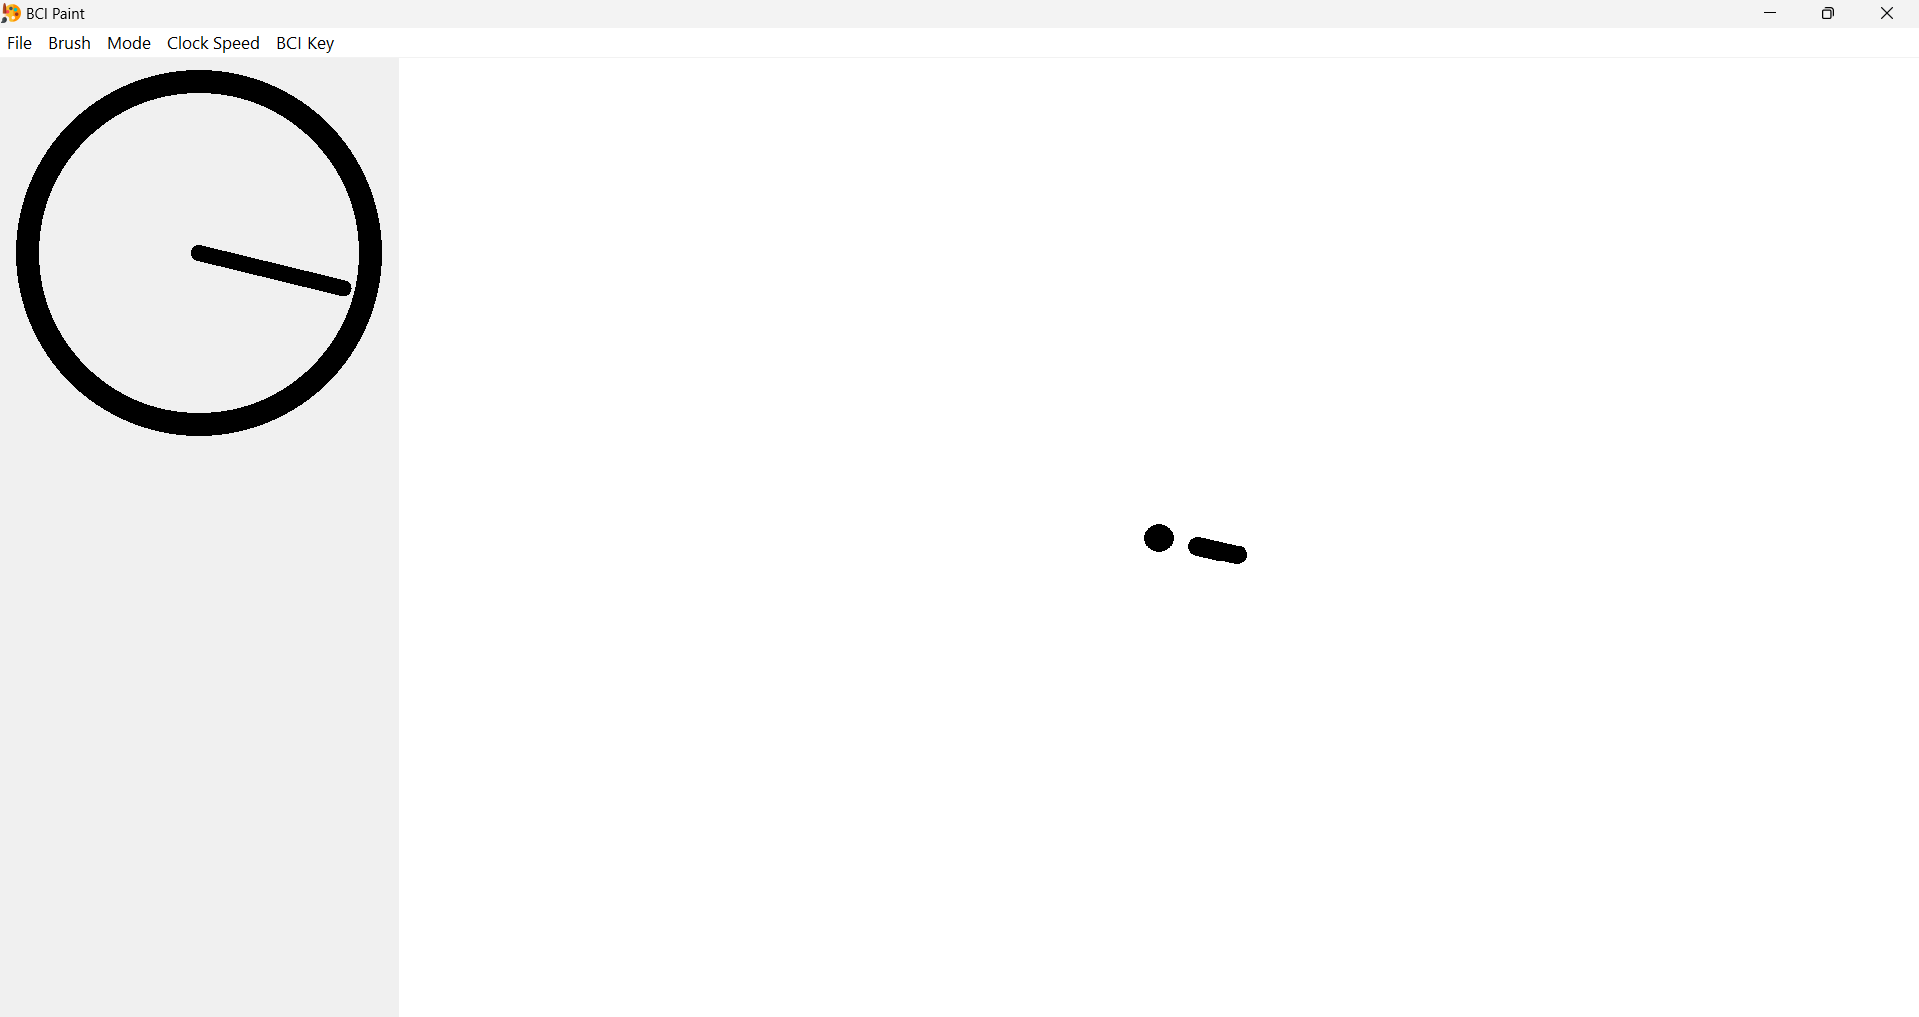
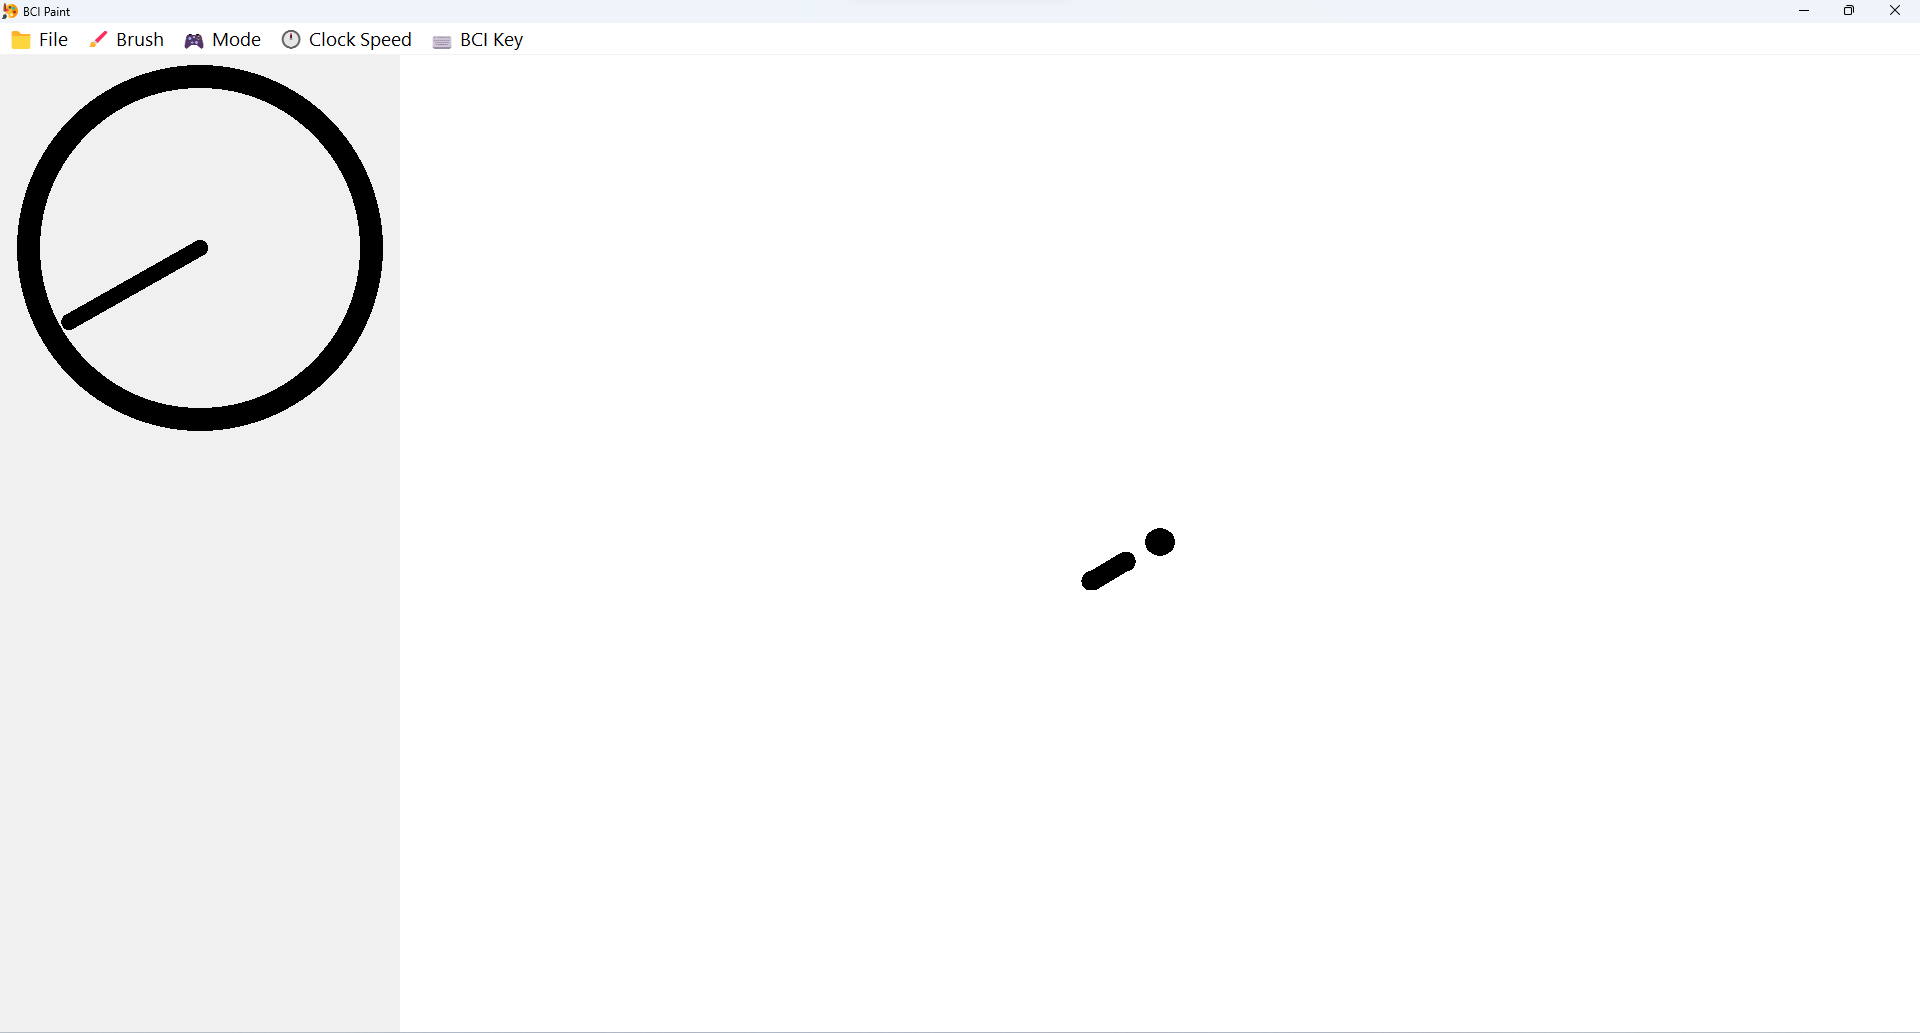
Added sticker placement feature

Changed region(s): [[0.0, 0.2134, 0.1845, 0.4267], [0.0, 0.0, 0.2767, 0.1524], [0.5534, 0.5182, 0.6456, 0.5792]]

diff --git a/main.py b/main.py
@@ -82,6 +82,17 @@ class Window(QMainWindow):
         # Initialize the mode to freestyle
         self.mode = Mode.FREESTYLE
 
+        # Set up the sticker placements (rows, columns, and coordinates allow for future flexibilty)
+        self.StickerIndices = ["number-1.png", "number-2.png", "number-3.png", "number-4", "number-5.png", "number-6.png", "number-7.png", "number-8.png", "number-9.png"]
+        self.stickerCoordinates = []
+        self.stickerRows = 3
+        self.stickerColumns = 3
+        self.currentStickerIndex = 0
+
+        self.stickerTimer = QTimer(self, interval=3000)
+        self.stickerTimer.timeout.connect(self.incrementStickerIndex)
+        self.stickerTimer.start()
+
         # Initialize feedback mode using the power level to off
         self.feedback = False
  
@@ -178,6 +189,34 @@ class Window(QMainWindow):
 
                     # Add a pause so the animation is visible
                     QTest.qWait(15)
+            elif self.mode == Mode.STICKER:
+                self.stickerTimer.stop()
+
+                # Get the image from the user
+                filename=None
+
+                if not filename:
+                    filename, _ = QFileDialog.getOpenFileName(self, 'Select Sticker' , QDir.currentPath(), 'Images (*.png *.jpg)')
+                if not filename:
+                    self.stickerTimer.start()
+                    return
+                
+                pixmap = QPixmap(filename)
+
+                # Scale the picture to the size of the grid cell if it is larger
+                if (pixmap.height() > self.image.height() // self.stickerRows):
+                    pixmap = pixmap.scaledToHeight(self.image.height() // self.stickerRows)
+                if (pixmap.width() > self.image.width() // self.stickerColumns):
+                    pixmap = pixmap.scaledToWidth(self.image.width() // self.stickerColumns)
+
+                # Set the coordinates of the picture to be centered in the grid cell
+                x = self.stickerCoordinates[self.currentStickerIndex][0] - pixmap.width() // 2
+                y = self.stickerCoordinates[self.currentStickerIndex][1] - pixmap.height() // 2
+
+                self.painter.drawPixmap(x, y, pixmap)
+
+                # Reset the timer
+                self.stickerTimer.start()
 
             # When the key press action finishes subtract 1 from the total currently active key presses being handled
             self.keyCount -= 1
@@ -209,20 +248,44 @@ class Window(QMainWindow):
 
         toolPainter.setPen(QPen(Qt.black, self.brushSize, Qt.SolidLine, Qt.RoundCap, Qt.RoundJoin))
 
-        # Draw the animation around the brush
-        x2 = math.sin(2*math.pi*self.theta/360)*self.brushSize*2
-        y2 = math.cos(2*math.pi*self.theta/360)*self.brushSize*2
-        toolPainter.drawLine(QLineF(self.x + x2, self.y - y2, self.x + 2*x2, self.y - 2*y2))
+        if self.mode == Mode.STICKER:
+            # Cacluate positions to draw stickers based on the number of rows and columns
+            self.stickerCoordinates = []
+            for i in range(0, self.stickerRows):
+                for j in range(0, self.stickerColumns):
+                    x = (self.image.width() // self.stickerColumns) * j + (self.image.width() // self.stickerColumns) // 2
+                    y = (self.image.height() // self.stickerRows) * i + (self.image.height() // self.stickerRows) // 2
+                    self.stickerCoordinates.append([x, y])
 
-        # Draw the brush 
-        if self.blink:
-            toolPainter.setPen(QPen(self.brushColor, self.brushSize, Qt.SolidLine, Qt.RoundCap, Qt.RoundJoin))
-            brush = QBrush()
-            brush.setColor(QColor(self.brushColor))
-            brush.setStyle(Qt.SolidPattern)
-            toolPainter.setBrush(brush)
-            self.brush.moveCenter(QPointF(self.x, self.y))
-            toolPainter.drawEllipse(self.brush)
+            index = 0
+            for number in self.StickerIndices:
+                pixmap = QPixmap(os.path.join("Assets", number))
+
+                # Set the size of the number icon according to whether it is highlighted or not
+                if (index == self.currentStickerIndex):
+                    pixels = 128
+                else:
+                    pixels = 64
+                pixmap = pixmap.scaledToHeight(pixels)
+
+                toolPainter.drawPixmap(self.stickerCoordinates[index][0] - pixmap.width() // 2, self.stickerCoordinates[index][1] - pixmap.height() // 2, pixmap)
+
+                index += 1
+        else:
+            # Draw the animation around the brush
+            x2 = math.sin(2*math.pi*self.theta/360)*self.brushSize*2
+            y2 = math.cos(2*math.pi*self.theta/360)*self.brushSize*2
+            toolPainter.drawLine(QLineF(self.x + x2, self.y - y2, self.x + 2*x2, self.y - 2*y2))
+
+            # Draw the brush 
+            if self.blink:
+                toolPainter.setPen(QPen(self.brushColor, self.brushSize, Qt.SolidLine, Qt.RoundCap, Qt.RoundJoin))
+                brush = QBrush()
+                brush.setColor(QColor(self.brushColor))
+                brush.setStyle(Qt.SolidPattern)
+                toolPainter.setBrush(brush)
+                self.brush.moveCenter(QPointF(self.x, self.y))
+                toolPainter.drawEllipse(self.brush)
 
  
     # Handle the save canvas action
@@ -453,6 +516,13 @@ class Window(QMainWindow):
         self.allowKeyTimer.setInterval(1000) # Allow 1 key press every second
         self.disableSelection(self.modeMenu, "Game")
 
+    def sticker(self):
+        self.mode = Mode.STICKER
+        self.allowKeyTimer.setInterval(1000)
+        self.currentStickerIndex = 0
+        self.stickerTimer.start()
+        self.disableSelection(self.modeMenu, "Sticker")
+
     # Handle the clock speed actions
     def stopClock(self):
         self.step = 0
@@ -513,6 +583,9 @@ class Window(QMainWindow):
 
     def allowKeyPress(self):
         self.allowKey = True
+
+    def incrementStickerIndex(self):
+        self.currentStickerIndex = (self.currentStickerIndex + 1) % len(self.StickerIndices)
 
     # Disables the currently selected option in a menu
     def disableSelection(self, menu, actionName):

diff --git a/utils/menu.py b/utils/menu.py
@@ -227,6 +227,10 @@ def createMenu(win):
     win.modeMenu.addAction(game)
     game.triggered.connect(win.game)
 
+    sticker = QAction(QIcon(os.path.join("Assets", "sticker.png")), "Sticker", win)
+    win.modeMenu.addAction(sticker)
+    sticker.triggered.connect(win.sticker)
+
 
     # Creating options for clock speeds
     stopClock = QAction(QIcon(os.path.join("Assets", "stop.png")), "Stop", win)

diff --git a/utils/settings.py b/utils/settings.py
@@ -12,6 +12,7 @@ class Mode(Enum):
     """
     FREESTYLE = "freestyle"
     GAME = "game"
+    STICKER = "sticker"
 
 
 class LineStyle(Enum):

diff --git a/README.md b/README.md
@@ -56,6 +56,7 @@ The File menu is where the painting can be saved as PNG or JPEG file and the can
 The Brush menu allows you to adjust the properties of the brush
   * **Brush Size:** size of the brush
   * **Brush Colour:** colour of the brush
+  * **Texture:** the texture of the paint
   * **Paint Type:** the type of paint to use
   * **Brush Style:** style of the paint stroke
   * **Brush speed:** how far the brush moves in one stroke
@@ -63,9 +64,10 @@ The Brush menu allows you to adjust the properties of the brush
 
 <img src="docs/images/ModeMenu.png" width="350">
 
-The Mode menu allows you to switch between freestyle and game mode
+The Mode menu allows you to switch between freestyle, game mode, and sticker mode
   * **Freestyle:** fine control over the movement of the brush
   * **Game:** the brush bounces of the edges of the canvas
+  * **Sticker:** allows you to place a sticker/image on the canvas
 
 <img src="docs/images/ClockSpeedMenu.png" width="350">
 
@@ -86,7 +88,7 @@ The BCI Key menu allows the user to match the key that activates the brush to th
 ## Building the Project
 1. Download the source code
 2. Unzip the folder
-3. Navigate to the folder in your preferred IDE or in the terminal and run `pyinstaller --add-data="Assets;Assets" --icon="Assets/favicon.ico" --noconsole main.py`
+3. Navigate to the folder in your preferred IDE or in the terminal and run: <br> `pyinstaller --add-data="Assets;Assets" --icon="Assets/favicon.ico" --noconsole main.py`
 4. A 'dist' folder should be created and the exectuable "main.exe" should be inside the 'main' folder in the 'dist' folder
 5. Double click on main.exe to run the app!
 
@@ -128,6 +130,7 @@ Images from the following sources are used in the program:
 * Hyperspeed Icon: <a href="https://www.flaticon.com/free-icons/thunder" title="thunder icons">Thunder icons created by Freepik - Flaticon</a>
 * Game Icon: <a href="https://www.flaticon.com/free-icons/bounce-rate" title="bounce rate icons">Bounce rate icons created by Royyan Wijaya - Flaticon</a>
 * Freestyle Icon: <a href="https://www.flaticon.com/free-icons/easel" title="easel icons">Easel icons created by Freepik - Flaticon</a>
+* Sticker Icon: <a href="https://www.flaticon.com/free-icons/sticker" title="sticker icons">Sticker icons created by smalllikeart - Flaticon</a>
 * Colour Icon: <a href="https://www.flaticon.com/free-icons/circle" title="circle icons">Circle icons created by Freepik - Flaticon</a>
 * Brush Size Icon: <a href="https://www.flaticon.com/free-icons/graphic-design" title="graphic-design icons">Graphic-design icons created by Freepik - Flaticon</a>
 * Line Style Icon: <a href="https://www.flaticon.com/free-icons/scribble" title="scribble icons">Scribble icons created by Rahul Kaklotar - Flaticon</a>
@@ -137,5 +140,14 @@ Images from the following sources are used in the program:
 * Texture Icon: <a href="https://www.flaticon.com/free-icons/texture" title="texture icons">Texture icons created by small.smiles - Flaticon</a>
 * None Icon: <a href="https://www.flaticon.com/free-icons/traffic" title="traffic icons">Traffic icons created by Freepik - Flaticon</a>
 * Metallic: <a href="https://www.flaticon.com/free-icons/shine" title="shine icons">Shine icons created by Freepik - Flaticon</a>
+* One: <a href="https://www.flaticon.com/free-icons/number-one" title="number one icons">Number one icons created by Hight Quality Icons - Flaticon</a>
+* Two: <a href="https://www.flaticon.com/free-icons/two" title="two icons">Two icons created by Hight Quality Icons - Flaticon</a>
+* Three: <a href="https://www.flaticon.com/free-icons/three" title="three icons">Three icons created by Hight Quality Icons - Flaticon</a>
+* Four: <a href="https://www.flaticon.com/free-icons/4" title="4 icons">4 icons created by Hight Quality Icons - Flaticon</a>
+* Five: <a href="https://www.flaticon.com/free-icons/number-5" title="number 5 icons">Number 5 icons created by Hight Quality Icons - Flaticon</a>
+* Six: <a href="https://www.flaticon.com/free-icons/number" title="number icons">Number icons created by Hight Quality Icons - Flaticon</a>
+* Seven: <a href="https://www.flaticon.com/free-icons/number" title="number icons">Number icons created by Hight Quality Icons - Flaticon</a>
+* Eight: <a href="https://www.flaticon.com/free-icons/number-8" title="number 8 icons">Number 8 icons created by Hight Quality Icons - Flaticon</a>
+* Nine: <a href="https://www.flaticon.com/free-icons/number-9" title="number 9 icons">Number 9 icons created by Hight Quality Icons - Flaticon</a>
 * Gold Color: https://pixabay.com/
 * Silver Color: https://www.pickpik.com/background-silver-glitter-glittering-background-texture-textured-4989
